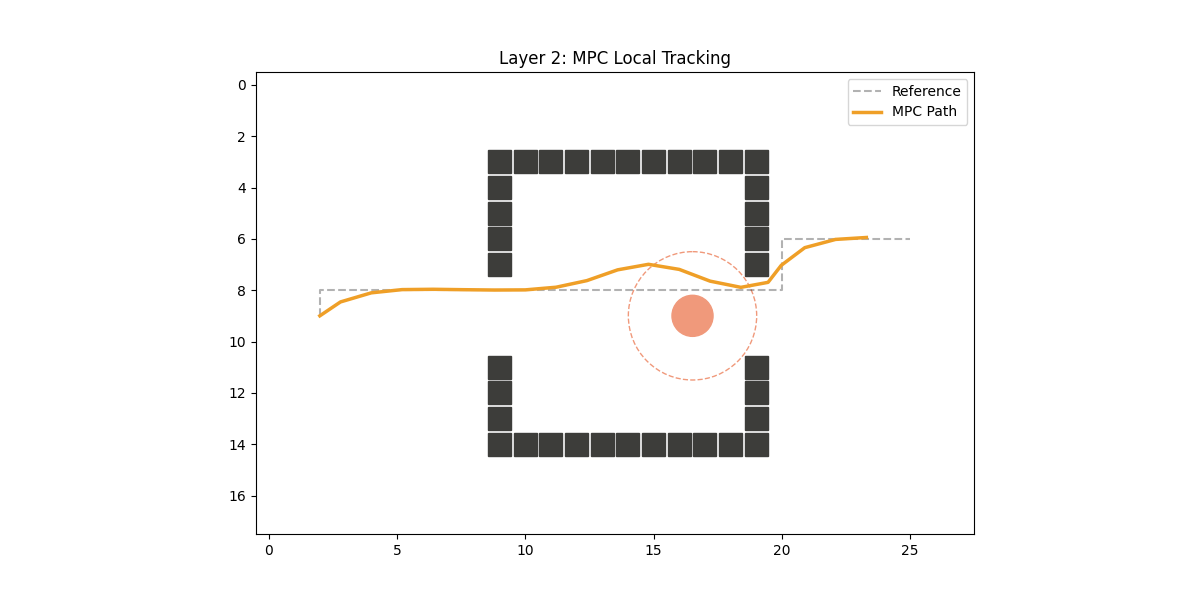
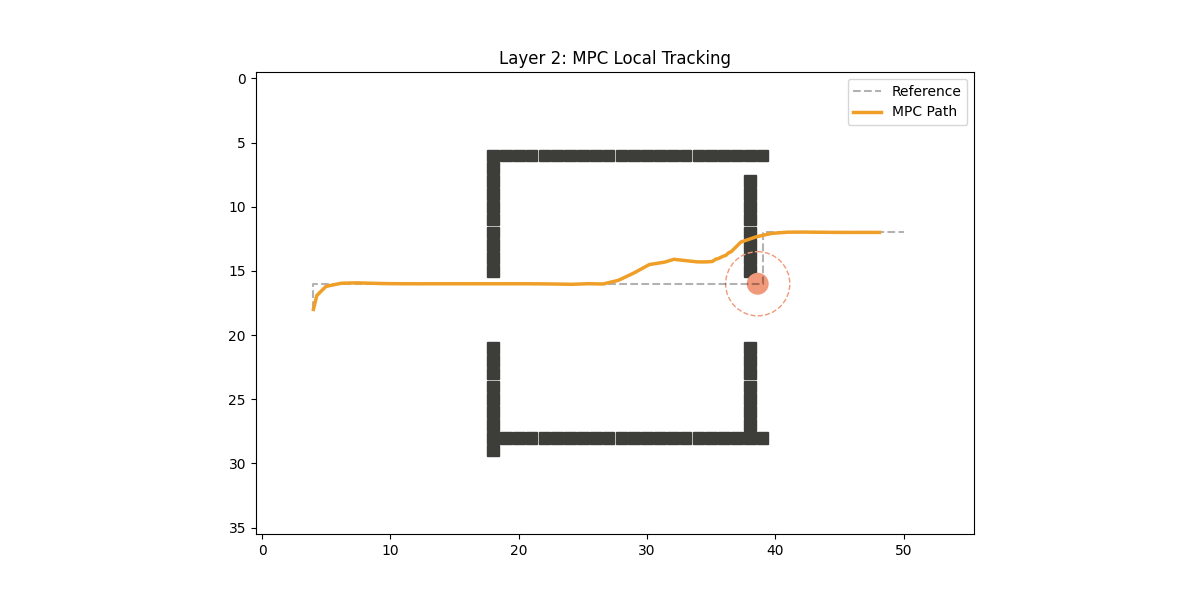
increase the resolution of the grid

diff --git a/controller.py b/controller.py
@@ -17,7 +17,7 @@ class DynamicObstacle:
 
 class MPCController:
     """Local replanner using Gradient-based optimization."""
-    def __init__(self, horizon=5, w_track=3.0, w_obs=8.0, w_smth = 2.0):
+    def __init__(self, horizon=10, w_track=3.0, w_obs=8.0, w_smth = 2.0):
         self.H = horizon
         self.W_TRACK = w_track
         self.W_OBS = w_obs
@@ -43,7 +43,7 @@ class MPCController:
                 p_temp = p_temp + delta
                 r_idx, c_idx = int(round(p_temp[0])), int(round(p_temp[1]))
                 if not gmap.is_free(r_idx, c_idx):
-                    total_cost += 200.0  # Add a huge penalty for hitting a static wall
+                    total_cost += 5000  # Add a huge penalty for hitting a static wall
                 total_cost += self.W_TRACK * np.sum((p_temp - ref[k])**2)
                 if obs.active:
                     d = np.linalg.norm(p_temp - np.array([obs.r, obs.c]))

diff --git a/planner.py b/planner.py
@@ -12,15 +12,15 @@ class GridMap:
     @classmethod
     def default_setup(cls):
         """Creates the barriers used in the project."""
-        g = cls(18, 28)
+        g = cls(36, 56)
         
-        for r in range(3, 15): g.grid[r][9] = 1
-        for c in range(9, 20): 
-            g.grid[3][c] = 1
-            g.grid[14][c] = 1
-        for r in (8, 9, 10): g.grid[r][9] = 0
-        for r in range(4, 14): g.grid[r][19] = 1
-        for r in (8, 9, 10): g.grid[r][19] = 0
+        for r in range(6, 30): g.grid[r][18] = 1
+        for c in range(18, 40): 
+            g.grid[6][c] = 1
+            g.grid[28][c] = 1
+        for r in (16, 17, 18, 19, 20): g.grid[r][18] = 0
+        for r in range(8, 28): g.grid[r][38] = 1
+        for r in (16, 17, 18, 19, 20): g.grid[r][38] = 0
         return g
 
     def is_free(self, r, c):

diff --git a/main.py b/main.py
@@ -6,14 +6,14 @@ import numpy as np
 def main():
     # 1. Setup
     gmap = GridMap.default_setup()
-    start, goal = (9, 2), (6, 25)
+    start, goal = (18, 4), (12, 50)
 
     # 2. Global Plan (Discrete)
     astar_path, explored = run_astar(gmap, start, goal)
 
     # 3. Local Execution (Continuous)
     controller = MPCController()
-    obs = DynamicObstacle(r=9.0, c=14.0)
+    obs = DynamicObstacle(r=16.0, c=28.0)
     pos = np.array(start, dtype=float)
     trajectory = [pos.copy()]
     last_delta = np.zeros(2) # Initial value
